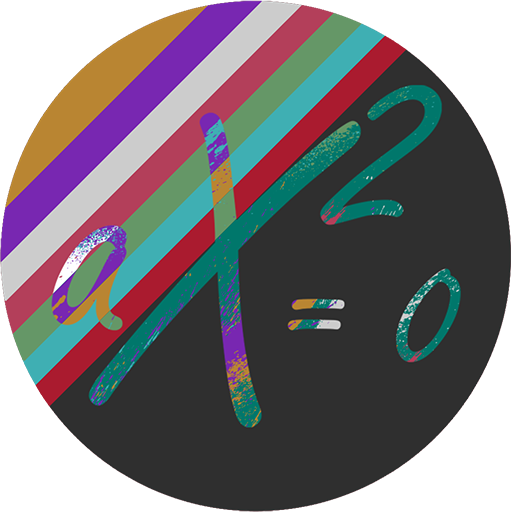
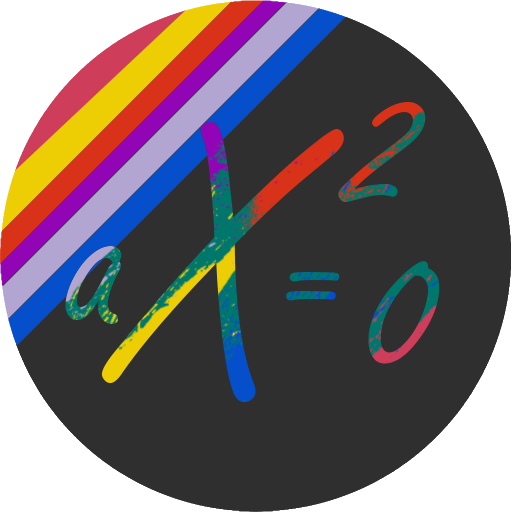
Small fixes
1) Presplash screen has been changed and widened
2) Icon was changed
3) A couple of interface bugs were fixed

diff --git a/main.py b/main.py
@@ -1013,7 +1013,7 @@ class SettingsScreen(MDScreen):
 
     def set_dark_blue_bg(self):
         for bg in self.backgrounds:
-            bg.source = 'Darkblue_theme.png'
+            bg.source = 'DarkBlue_theme.png'
         for card in self.cards:
             card.md_bg_color = 0, .08, .67, 1
 
@@ -1033,7 +1033,7 @@ Interface = 'new_gui.kv'
 class QES(MDApp):
 
     have_been_popped = None
-    # resolution coefficient: Area of CURRENT device's screen / Area of INITIAL device's screen
+    # resolution coefficient: width of CURRENT device's screen / width of INITIAL device's screen
     resolution_coefficient = Window.width / 450
     @staticmethod
     def close_application(obj):
